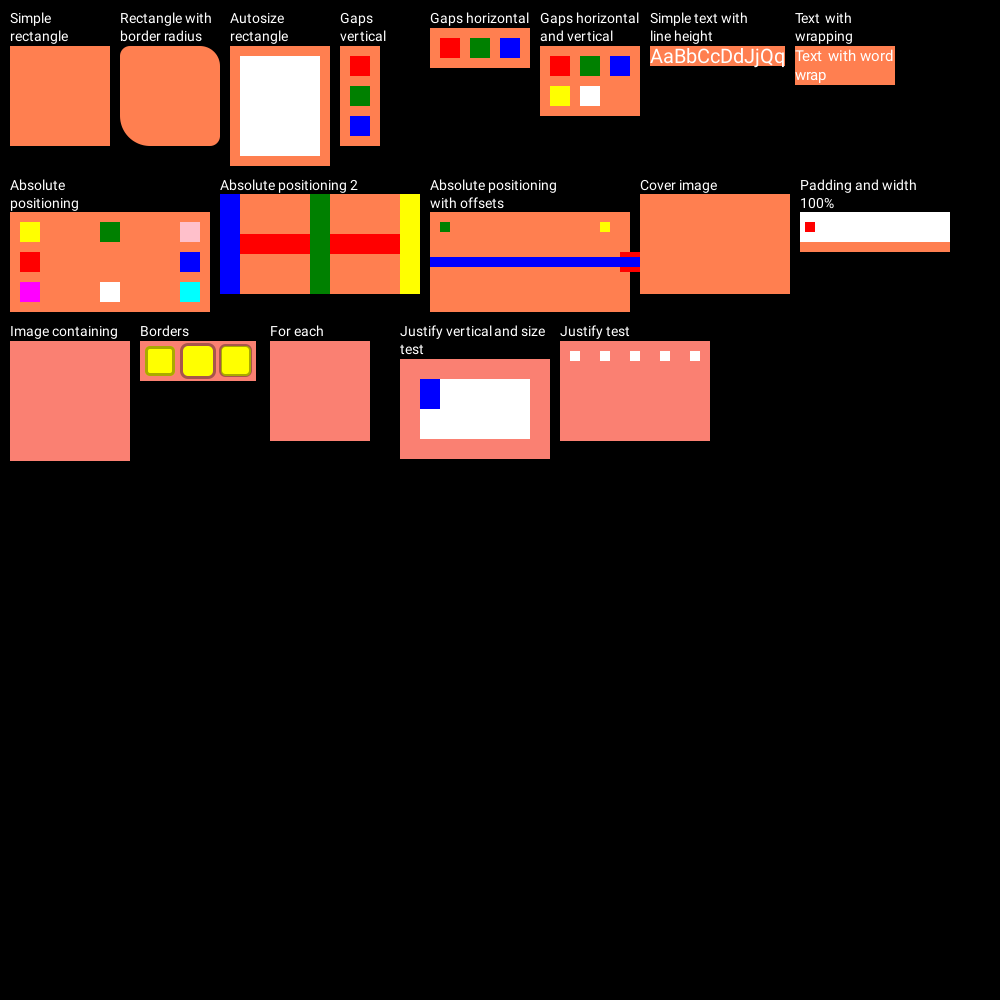
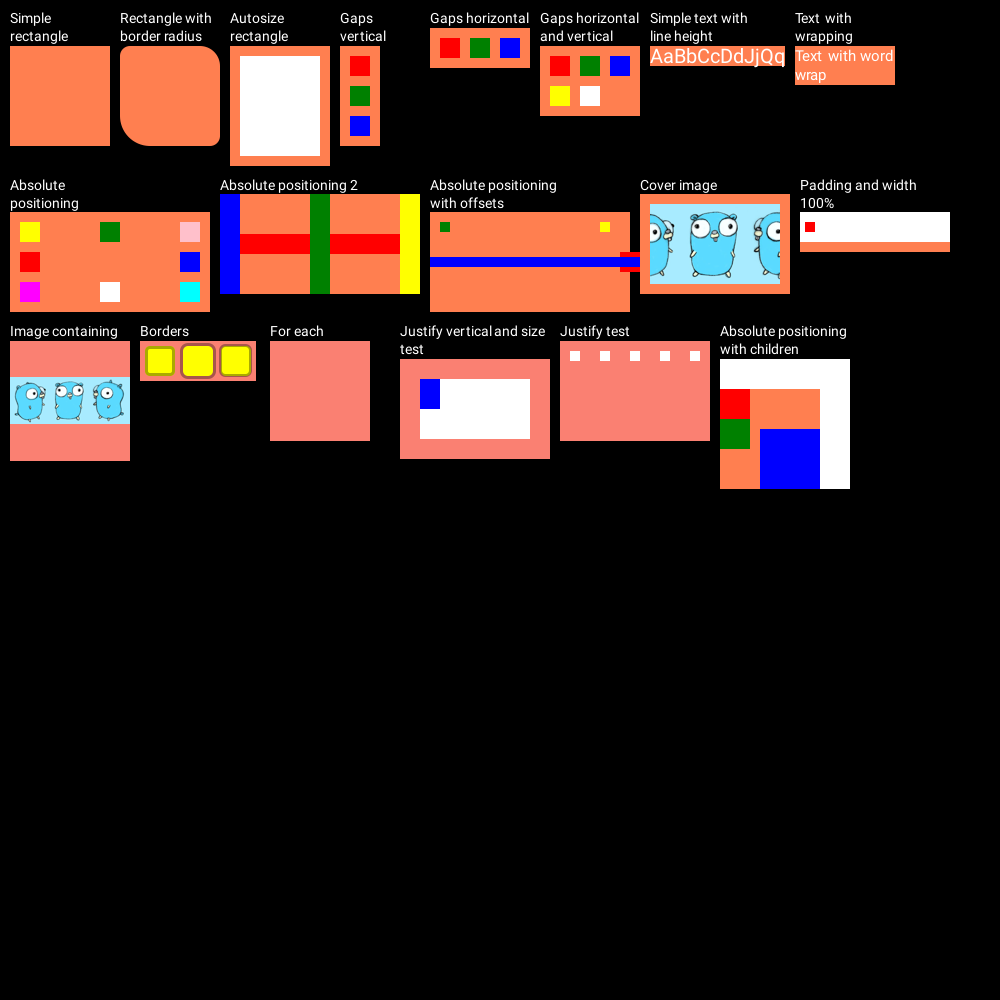
fix for abs positions

Changed region(s): [[0.651, 0.186, 0.868, 0.496], [0.0, 0.372, 0.155, 0.434]]

diff --git a/render/render.go b/render/render.go
@@ -58,8 +58,8 @@ func Do(nodes layout.Nodes) *image.RGBA {
 			left, top := getLeftTopOffsets(state.node, n)
 			drawNode(&cache, state.dst, n, state.pos.Left+left, state.pos.Top+top)
 			state.pos = utils.Pos{
-				Left: state.pos.Left + n.Pos.Left + n.Props.Padding[3],
-				Top:  state.pos.Top + n.Pos.Top + n.Props.Padding[0],
+				Left: left + state.pos.Left + n.Props.Padding[3],
+				Top:  top + state.pos.Top + n.Props.Padding[0],
 			}
 		}
 		state.node = n
